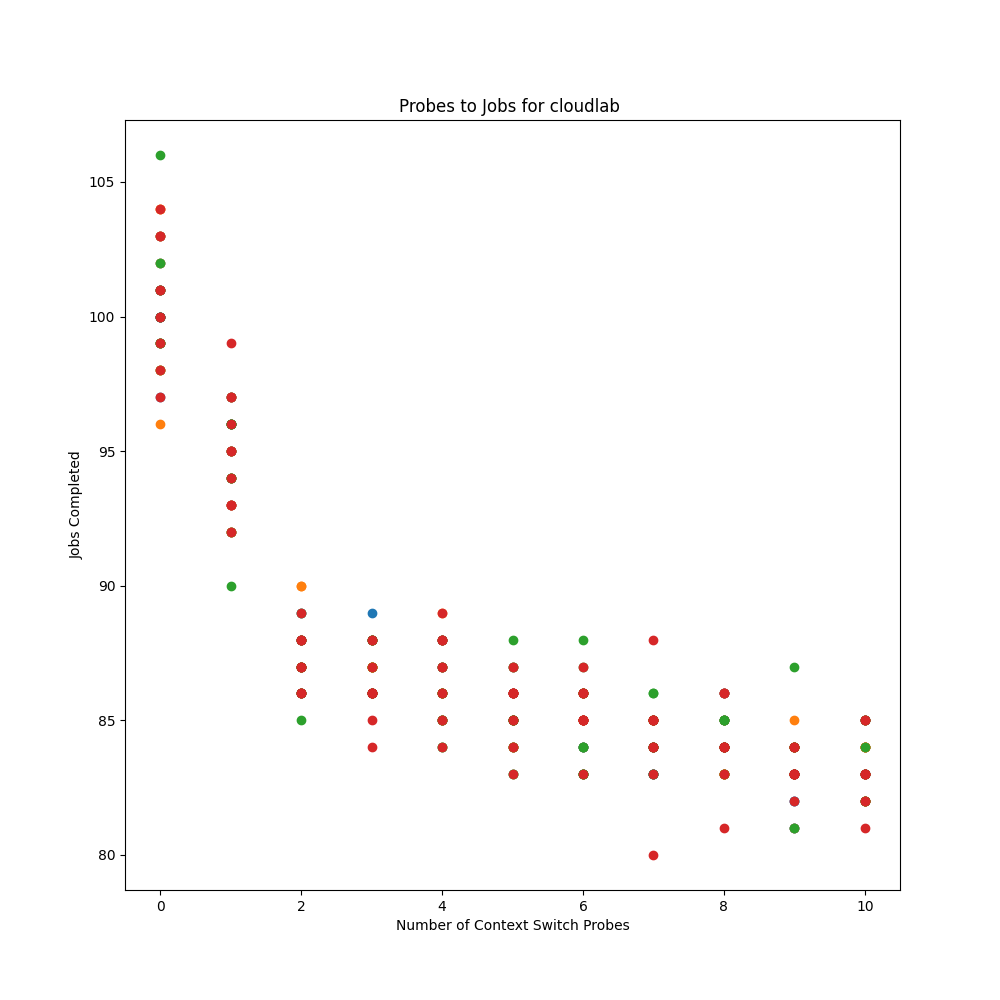
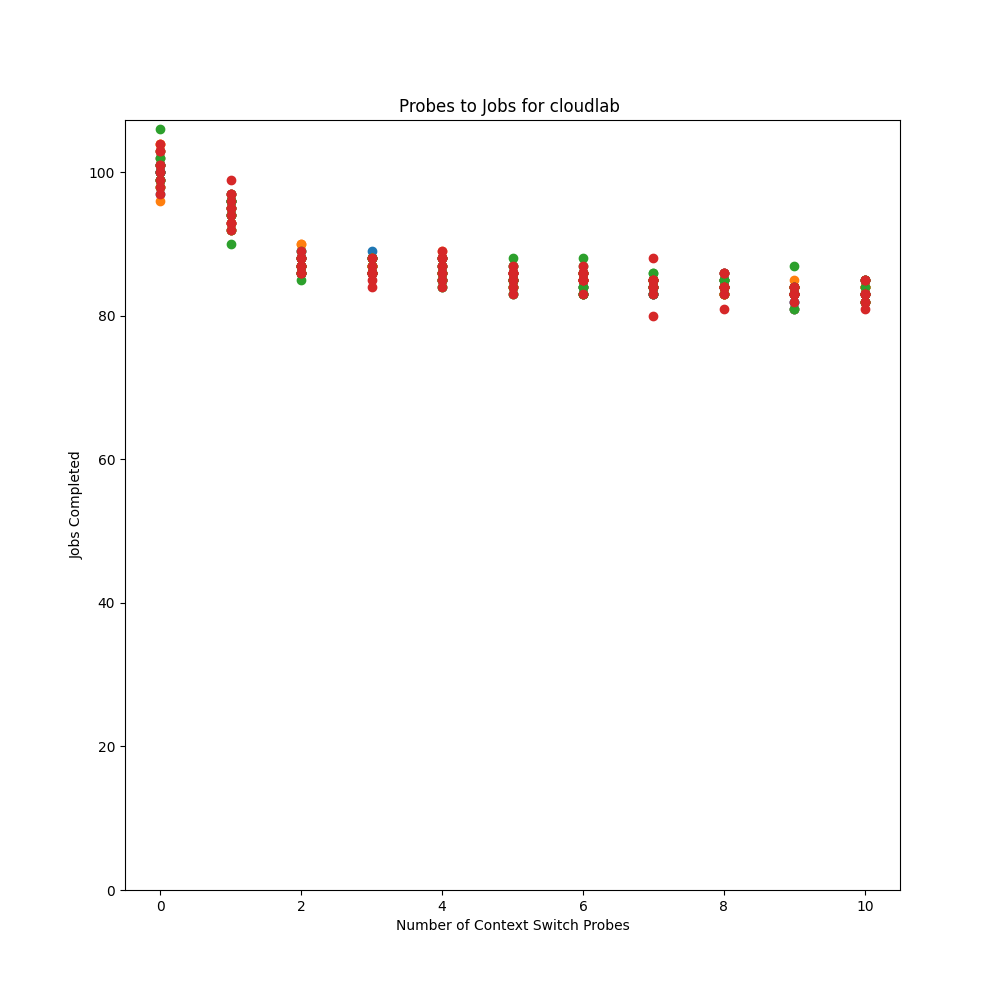
set yscale to start at 0

diff --git a/analyzer.py b/analyzer.py
@@ -30,7 +30,7 @@ def visualize(serverType, governor, experiment, timePerJob):
 
     # create a scatter plot of the data
     fig, ax1 = plt.subplots(figsize=(10, 10))
-    # labe the y-axis as the number of jobs completed
+    # label the y-axis as the number of jobs completed
     if not timePerJob:
         ax1.set_ylabel("Jobs Completed")
     else:
@@ -51,6 +51,8 @@ def visualize(serverType, governor, experiment, timePerJob):
         ax1.set_title(f"Events to Jobs for {serverType} {governor}")
     else:
         ax1.set_title(f"Probes to Jobs for {serverType} {governor}")
+    # set the y min as 0
+    ax1.set_ylim(bottom=0)
     # fig.show()
     if governor:
         if timePerJob:
@@ -65,7 +67,8 @@ def visualize(serverType, governor, experiment, timePerJob):
     plt.close()
 
 
-servers = [("aws_", ""), ("aws2", ""), ("aws8", ""), ("cloudlab", ""), ("home", "per"), ("home", "ps"), ("school", "per"), ("school", "ps")]
+servers = [("aws_", ""), ("aws2", ""), ("aws8", ""), ("cloudlab", ""), ("home", "per"), ("home", "ps"), ("school_", "per"), ("school_", "ps"), ("schoolC0", "")]
+# servers = [("aws", "")]  # for testing
 serversNoGov = [("aws", ""), ("cloudlab", ""), ("home", ""), ("school", "")]
 allServers = [("aws", ""), ("cloudlabA", ""), ("cloudlabB", "per"), ("cloudlabB", "ps"), ("home", "per"), ("home", "ps"), ("school", "per"), ("school", "ps")]
 newServers = [("schoolC0", "")]
